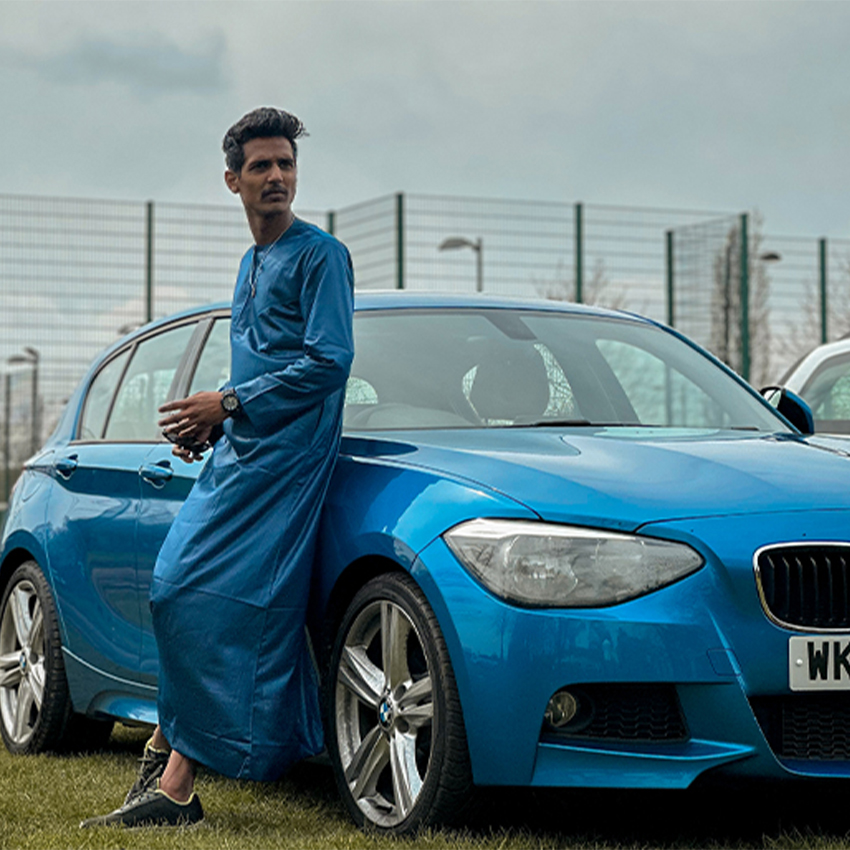
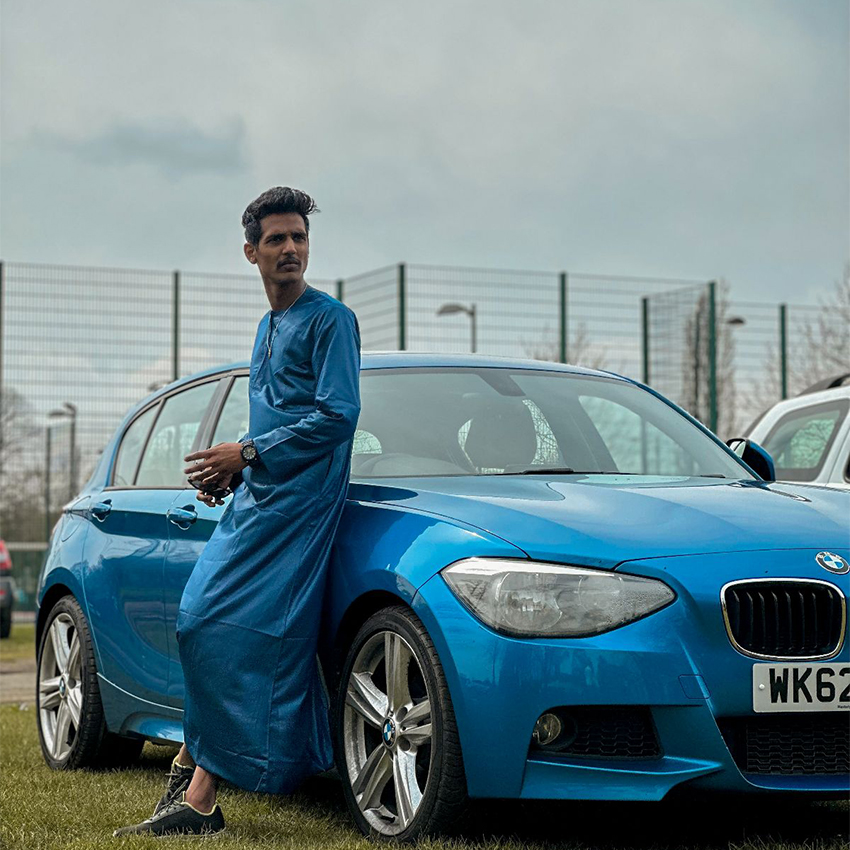
images changed

diff --git a/index.html b/index.html
@@ -120,7 +120,7 @@
       <div class="row">
         <div class="col-lg-6 wow fadeInLeft">
           <div class="st-about-img-wrap">
-            <div class="st-about-img st-dynamic-bg st-bg" data-src="assets/img/section/hafil.jpg"></div>
+            <div class="st-about-img st-dynamic-bg st-bg" data-src="assets/img/section/about_img.jpg"></div>
           </div>
           <div class="st-height-b0 st-height-lg-b30"></div>
         </div>
